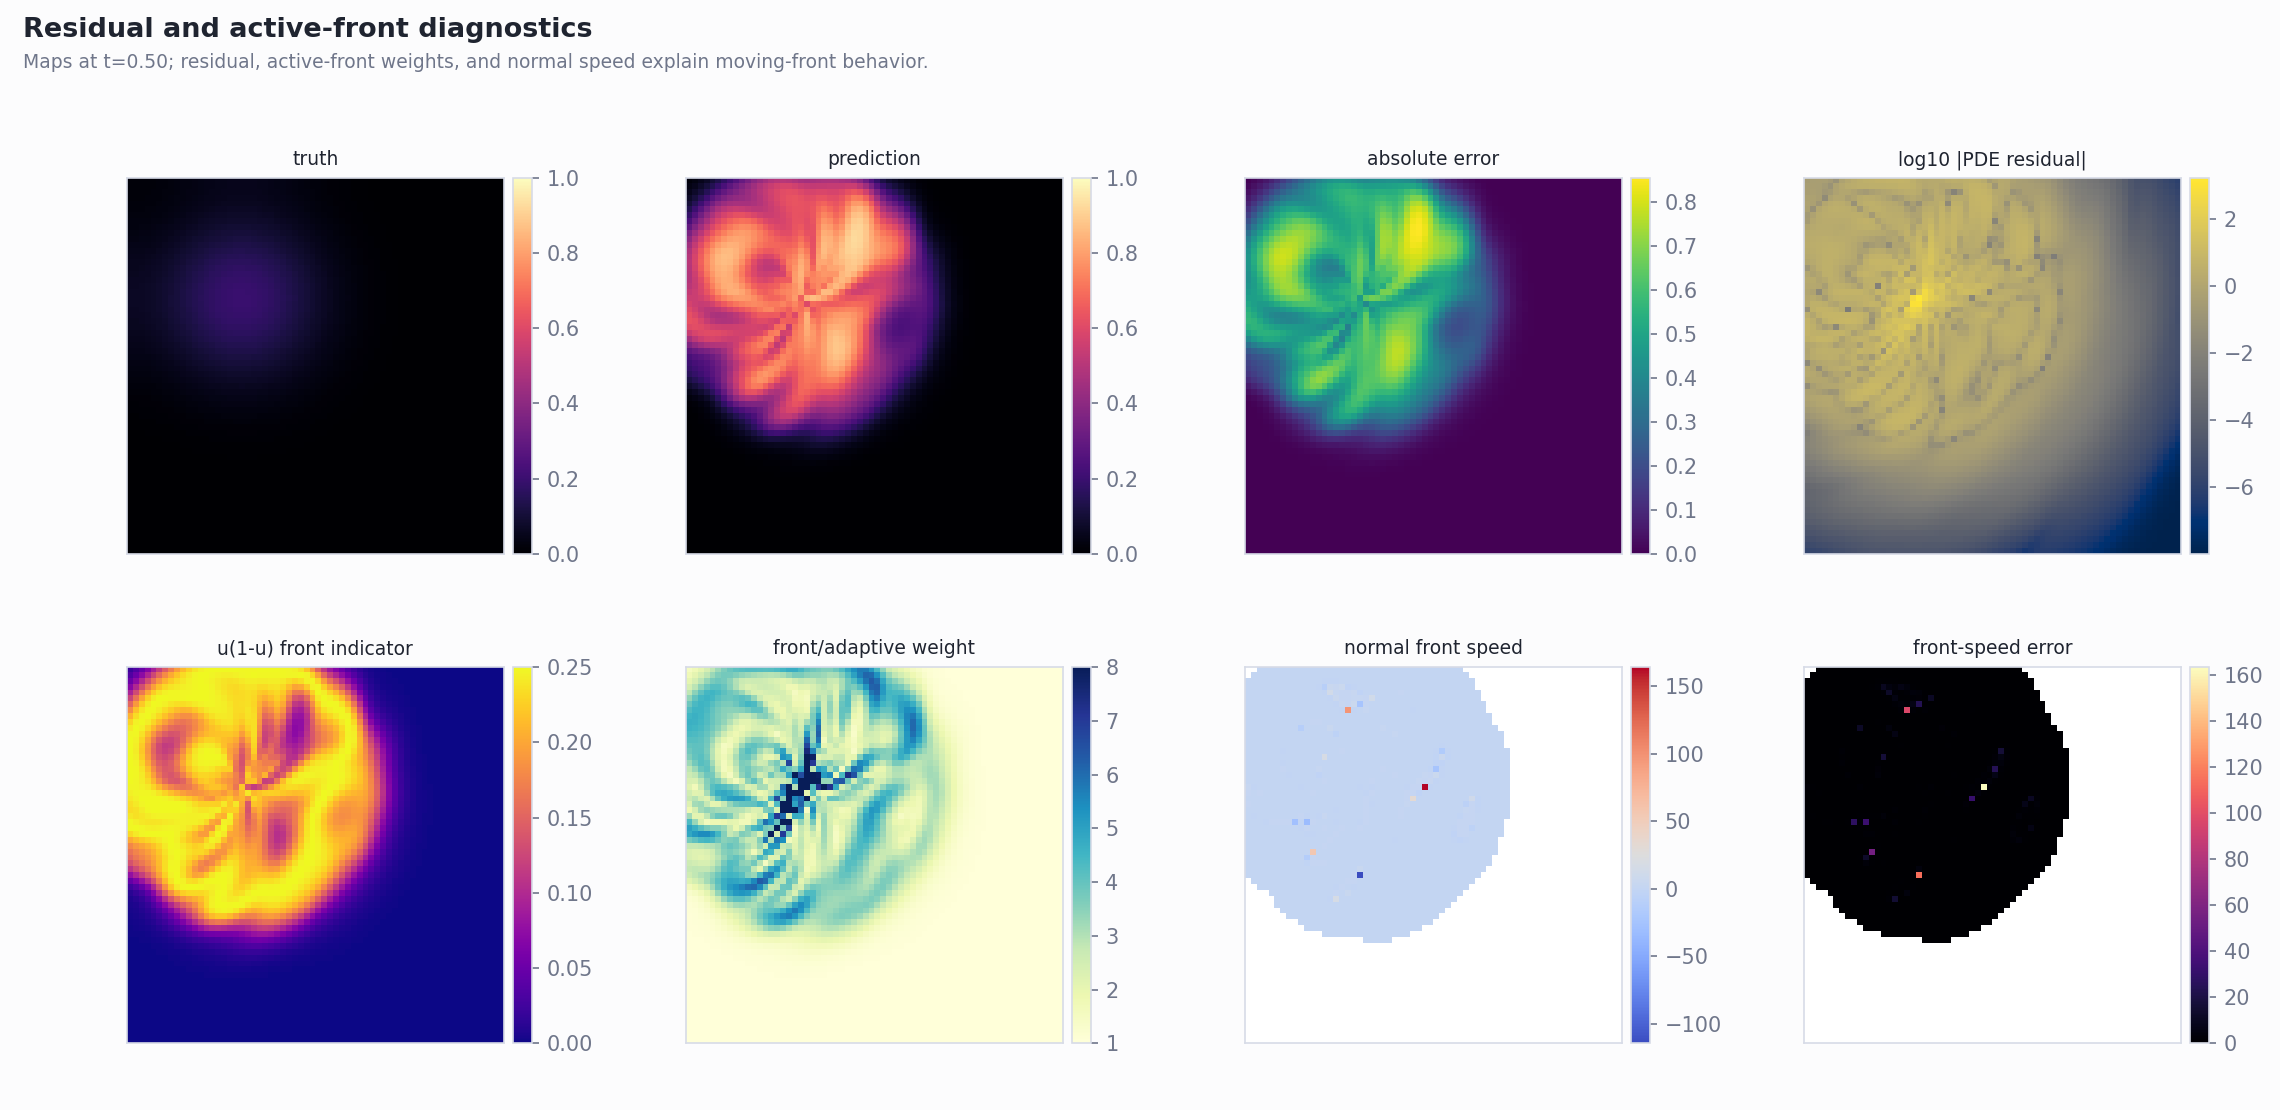
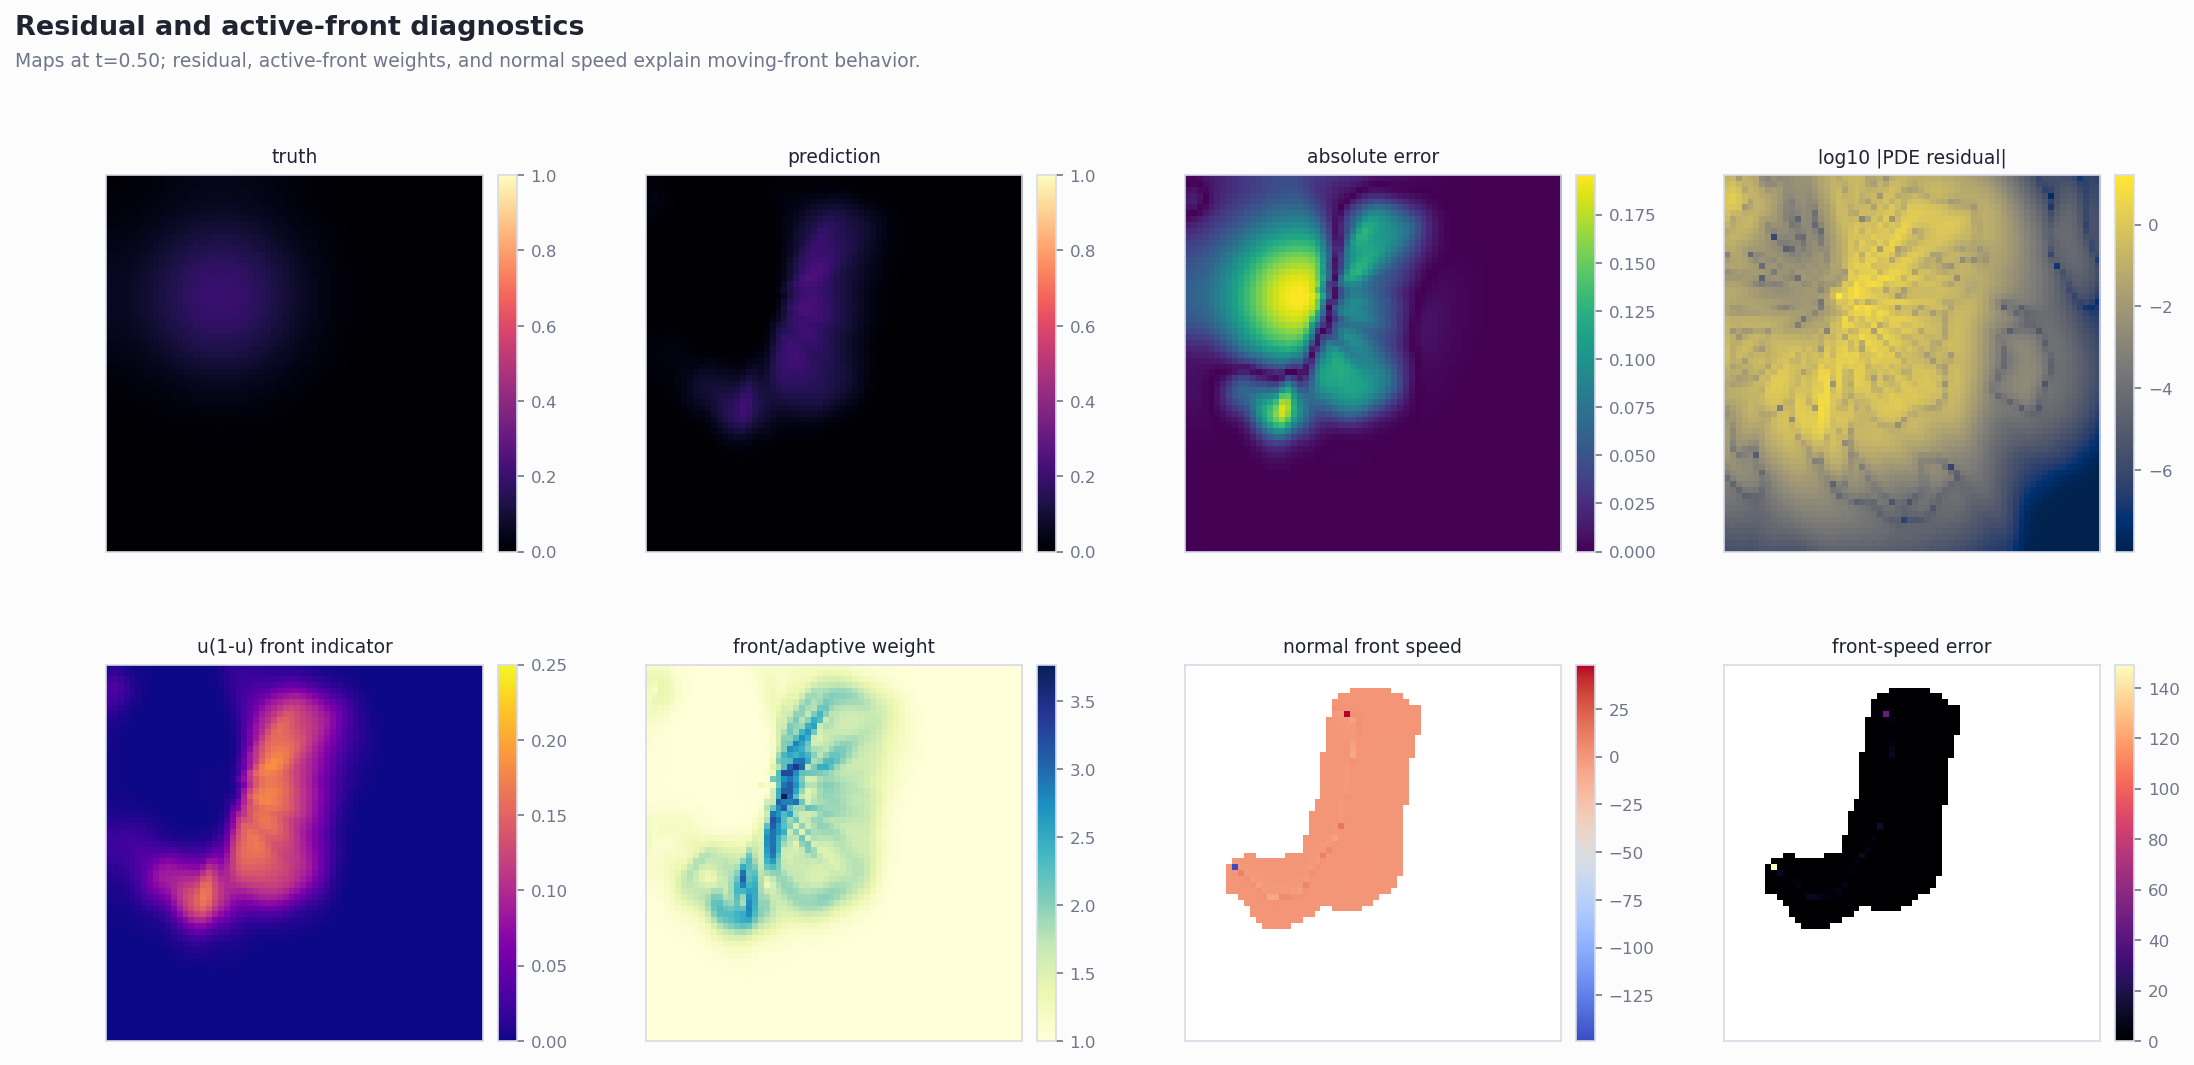
Refresh full PINN figure previews

diff --git a/README.md b/README.md
@@ -20,7 +20,8 @@ simulation.
 ## Method
 
 Detailed method explanation, literature rationale, observations, and interpretation are
-maintained in `docs/fisher_kpp_pinn_review_response.docx`.
+maintained in `docs/fisher_kpp_pinn_and_korea_pinn_technical_note.docx` and
+`docs/fisher_kpp_rk4_pde_technical_note.docx`.
 
 ## Figure Preview Gallery
 
@@ -33,10 +34,9 @@ docs/figure_previews/README.md
 ```
 
 The gallery includes RK4 1D/2D demos, long-time explicit/implicit integrator comparisons,
-the damped long-time curve benchmark, Geo-Spectral PINN diagnostic figures, Korea
-pine-wilt land-mask visualizations, GIF previews, and ablation summaries. The PINN and
-Korea figures in that gallery are smoke/diagnostic previews generated with short runtimes;
-use the longer commands below for publication-grade metrics.
+the damped long-time curve benchmark, Geo-Spectral PINN figures, Korea pine-wilt
+land-mask visualizations, GIF previews, and ablation summaries. The Geo-Spectral PINN
+and Korea pine-wilt PINN figures are generated from full 1200-epoch runs.
 
 ## Install
 
@@ -144,10 +144,10 @@ Outputs:
 - `korea_pine_wilt_summary.json`: run configuration and aggregate metrics.
 
 The PINN baseline reuses this repository's PirateNet/Fourier/geo-feature PINN backbone
-and fits the yearly gridded Korea observations with a weak Fisher-KPP PDE residual. It is
-a diagnostic baseline, not a calibrated surveillance or intervention model. Use
-`--skip-pinn` to run only the RK4 baseline, or increase `--pinn-epochs` for a stronger
-PINN fit.
+and fits the yearly gridded Korea observations with a weak Fisher-KPP PDE residual,
+known-initial-condition loss, sea-exclusion penalty, and learned effective D/r
+coefficients. Use `--skip-pinn` to run only the RK4 baseline, or increase
+`--pinn-epochs` for a stronger PINN fit.
 
 For an interactive Colab/Jupyter workflow, open:
 
@@ -165,7 +165,8 @@ pine-wilt compatibility mode, but changes the model and training objective. Deta
 method rationale and observations are kept in:
 
 ```text
-docs/fisher_kpp_pinn_review_response.docx
+docs/fisher_kpp_pinn_and_korea_pinn_technical_note.docx
+docs/fisher_kpp_rk4_pde_technical_note.docx
 ```
 
 Run the profile with:
@@ -382,4 +383,5 @@ Outputs:
 ## References
 
 References and method rationale are maintained in
-`docs/fisher_kpp_pinn_review_response.docx`.
+`docs/fisher_kpp_pinn_and_korea_pinn_technical_note.docx` and
+`docs/fisher_kpp_rk4_pde_technical_note.docx`.

diff --git a/docs/figure_previews/README.md b/docs/figure_previews/README.md
@@ -1,9 +1,9 @@
 # Figure Previews
 
-These figures are committed previews from reproducible smoke/demo runs. They are
-intended to show what each code path produces before a user runs the notebooks or
-scripts locally. PINN previews are intentionally short diagnostic runs, not final
-paper-grade training results.
+These figures are committed previews from reproducible script runs. They show what each
+code path produces before a user runs the notebooks or scripts locally. The
+Geo-Spectral PINN and Korea pine-wilt PINN previews were refreshed from full
+1200-epoch runs on 2026-06-09.
 
 ## RK4 1D And 2D Demos
 
@@ -41,6 +41,12 @@ paper-grade training results.
 
 ## Geo-Spectral PINN Diagnostic Preview
 
+Run source: `python scripts\run_inverse_origin.py --geo-spectral-forward --epochs 1200 --ensemble 1 --run-classical-baseline --out-dir runs\figure_update_full_geo_spectral_forward`.
+The refreshed run produced `pinn_final_time_relative_l2 = 0.9769`,
+`pinn_final_time_max_abs_error = 0.1955`, `rk4_final_time_relative_l2 = 0.00147`,
+`validation_observation_mse = 0.00578`, `front_area_010_mae = 0.01587`, and
+`mass_mae = 0.00437`.
+
 ![PINN observation coverage](pinn_observation_coverage.png)
 
 ![PINN reconstruction](pinn_reconstruction.png)
@@ -57,6 +63,11 @@ paper-grade training results.
 
 ## Korea Pine-Wilt Preview
 
+Run source: `python scripts\run_korea_pine_wilt_simulation.py --output-dir runs\figure_update_korea_pine_wilt_full --pinn-epochs 1200`.
+The refreshed run used grid size 96, 80 RK4 steps/year, and full 1200-epoch PINN
+training. It produced PINN mean observed-year relative L2 `0.6883` and RK4 mean
+observed-year relative L2 `2.5024` under the committed land-mask Fisher-KPP setup.
+
 ![Korea observed density by year](korea_observed_density_by_year.png)
 
 ![Korea RK4 forecast timeline](korea_rk4_forecast_timeline.png)
@@ -70,6 +81,10 @@ paper-grade training results.
 ![Korea map baseline preview](korea_map_baselines_preview.png)
 
 ![Korea map baseline GIF](korea_map_baselines.gif)
+
+![Korea error baseline preview](korea_error_baselines_preview.png)
+
+![Korea error baseline GIF](korea_error_baselines.gif)
 
 ## Ablation Summaries
 
